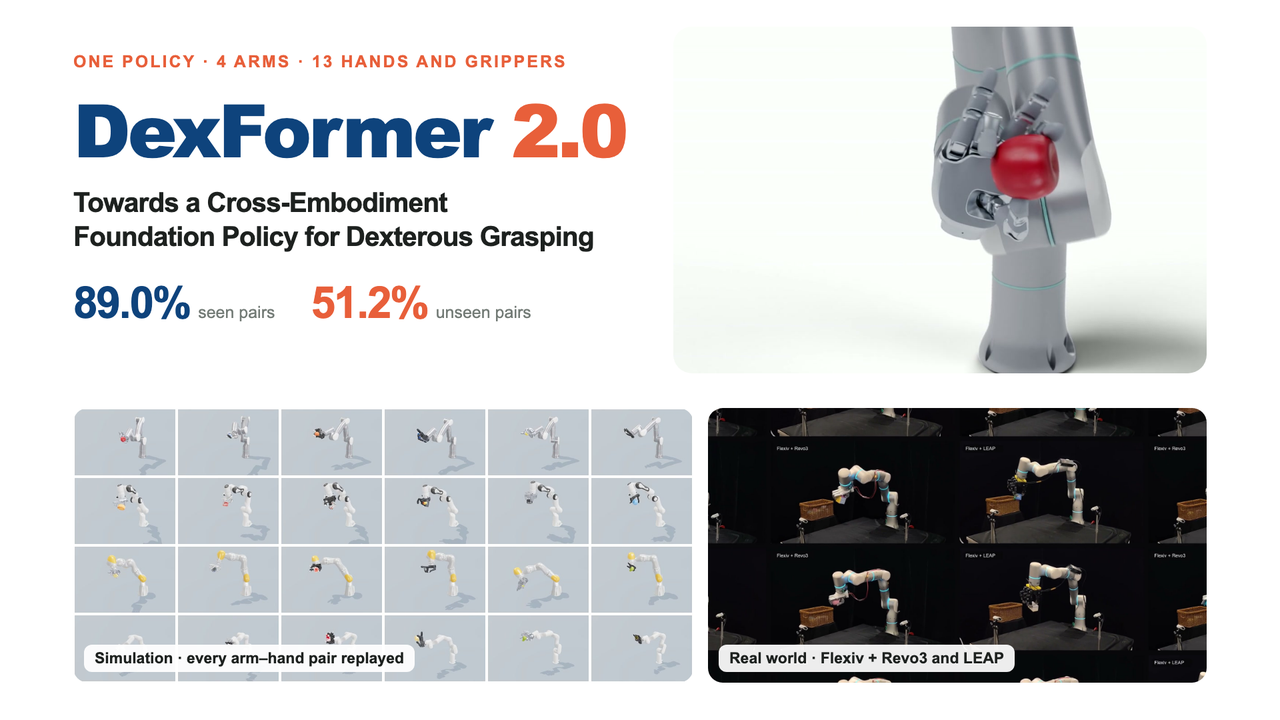
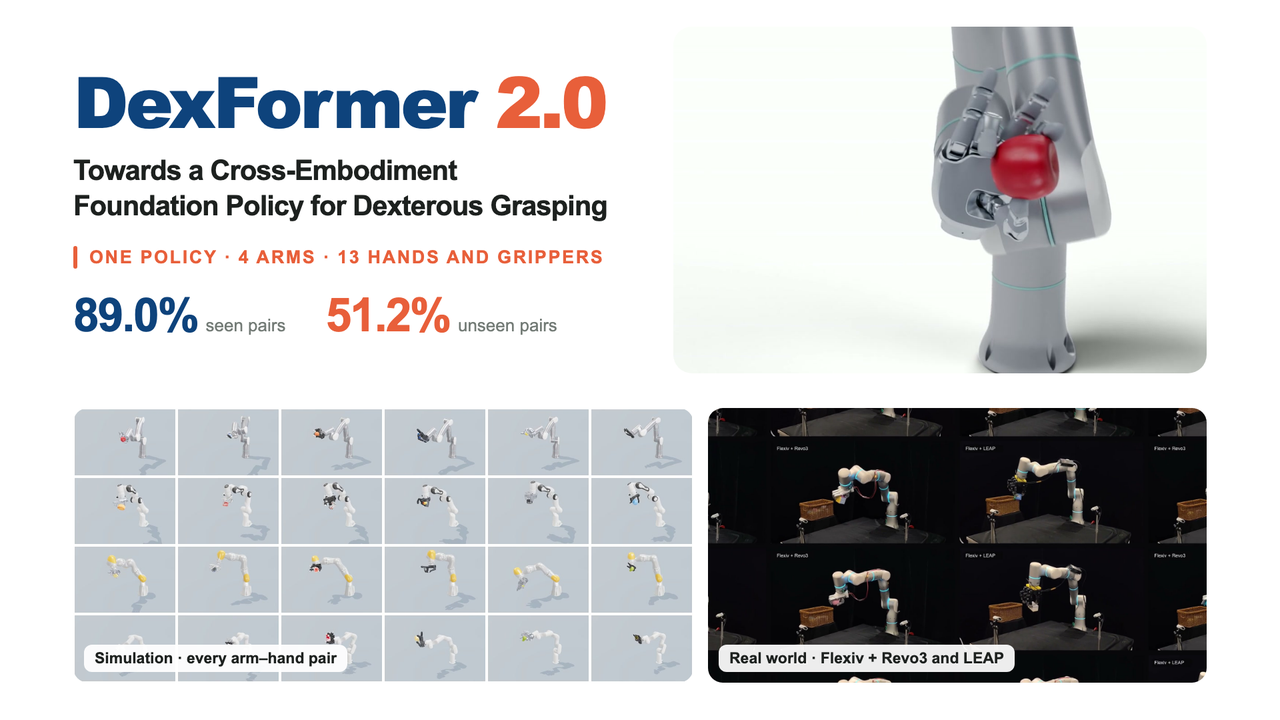
Redesign intro film thumbnail: tagline under the title, shorter simulation label

diff --git a/index.html b/index.html
@@ -5,7 +5,7 @@
   <meta name="description" content="Explore DexFormer 2.0 temporal representations across 24 original and 19 new arm–hand combinations.">
   <title>DexFormer 2.0: Towards a Cross-Embodiment Foundation Policy for Dexterous Grasping</title>
   <link rel="stylesheet" href="style.css?v=20261111-intro">
-  <script src="data.js" defer></script><script src="app.js?v=20261110-new-embodiments" defer></script><script src="films.js?v=20261111-intro" defer></script><script src="cases/data.js?v=20261110-leap-object-names-2" defer></script><script src="cases/failures.js?v=20261110-reviewed" defer></script><script src="cases.js?v=20261111-leap-trim" defer></script>
+  <script src="data.js" defer></script><script src="app.js?v=20261110-new-embodiments" defer></script><script src="films.js?v=20261111-intro-b" defer></script><script src="cases/data.js?v=20261110-leap-object-names-2" defer></script><script src="cases/failures.js?v=20261110-reviewed" defer></script><script src="cases.js?v=20261111-leap-trim" defer></script>
 </head>
 <body>
   <header class="site-header"><a class="wordmark" href="./">DexFormer <span class="version">2.0</span></a><nav class="site-nav" aria-label="Main navigation"><a class="header-link" href="#films">Films</a><a class="header-link" href="#isaac">3D Replay</a><a class="header-link" href="#explorer">Explore t-SNE ↗</a><a class="header-link" href="#cases">Real-world</a><a class="header-link" href="#results">Experiments</a></nav></header>
@@ -13,7 +13,7 @@
     <section class="intro"><div><h1 class="project-title"><span class="project-title-brand">DexFormer <span class="project-title-version">2.0</span></span><span class="project-title-detail">Towards a Cross-Embodiment<br class="title-break"> Foundation Policy for Dexterous Grasping</span></h1><div class="project-credits" aria-label="Authors and affiliations"><p class="project-authors"><span>Lixin Xu<sup>1,2,*</sup></span><span>Ke Zhang<sup>1,2,*</sup></span><span>Xinyu Liu<sup>2,*</sup></span><span>Jie Tan<sup>2,3</sup></span><span>Senming Tan<sup>2</sup></span></p><p class="project-authors project-authors-second"><span>Jiaju Yin<sup>1,2</sup></span><span>Yating Feng<sup>1,2</sup></span><span>Xiyue Dong<sup>1,2</sup></span><span>Renjing Xu<sup>1,†</sup></span></p><p class="project-affiliations"><span><sup>1</sup> HKUST(GZ)</span><span><sup>2</sup> BrainCo</span><span><sup>3</sup> Chongqing University</span></p><p class="project-author-notes"><span>* Equal contribution</span><span>† Corresponding author</span></p></div></div></section>
     <section class="film-section" id="films" aria-label="Project films">
 
-      <div class="film-screen"><video id="film-video" controls autoplay muted playsinline preload="metadata" poster="films/intro.png?v=20261111" aria-label="DexFormer 2.0 in 60 seconds promotional film"></video></div>
+      <div class="film-screen"><video id="film-video" controls autoplay muted playsinline preload="metadata" poster="films/intro.png?v=20261111b" aria-label="DexFormer 2.0 in 60 seconds promotional film"></video></div>
       <div class="film-caption"><div><span id="film-number">01 / 06</span><strong id="film-title">DexFormer 2.0 in 60 seconds</strong></div><span id="film-description">A narrated overview of the method and results.</span></div>
       <div id="film-picker" role="group" aria-label="Choose a promotional film"></div>
 

diff --git a/films.js b/films.js
@@ -1,7 +1,7 @@
 'use strict';
 (() => {
   const films = [
-    {id:'intro',src:'films/intro.mp4?v=20261111-v5',poster:'films/intro.png?v=20261111',title:'DexFormer 2.0 in 60 seconds',description:'A narrated overview of the method and results.',duration:'1:00',sound:true,manual:true},
+    {id:'intro',src:'films/intro.mp4?v=20261111-v5',poster:'films/intro.png?v=20261111b',title:'DexFormer 2.0 in 60 seconds',description:'A narrated overview of the method and results.',duration:'1:00',sound:true,manual:true},
     {id:'newton',title:'Grasp in focus',description:'The hand–object interaction, up close.',duration:'0:15'},
     {id:'ring',title:'Four objects',description:'Four objects in a shared manipulation scene.',duration:'0:15'},
     {id:'conveyor',title:'Along the conveyor',description:'Continuous views of the conveyor scene.',duration:'0:14'},
